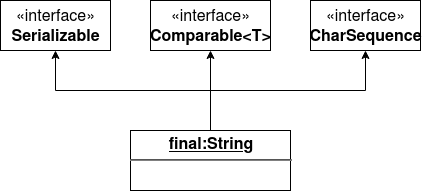
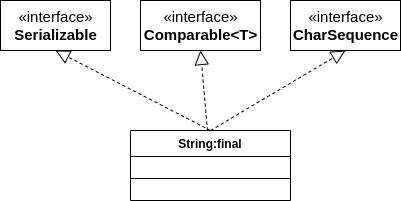
mod String.md

diff --git a/content/post/java/String.md b/content/post/java/String.md
@@ -5,38 +5,60 @@ draft: false
 categories: ["technology"]
 tags: ["java", "String"]
 ---
-
 &emsp;&emsp;从概念上将，Java字符串就是Unicode字符序列。e.g:串"Java\u2122由5个Unicode字符J a v a和TM。Java没有内置的的字符串，而是在标准Java类库中提供了一个预定义类，很自然地叫做String。每一个用引号括起来的字符串就是String类的一个实例。    
 &emsp;&emsp;在字符串中，分为不可变字符串(String)和可变字符串(StringBuffer和StringBuilder)。 
 
-### String  
-&emsp;&emsp;String类在JDK API中使用final修饰的，意为不可修改类。  
-![String](https://leidu.github.io/blogs/image/java/String.png)
+#### String  
+&emsp;&emsp;String类在JDK API中使用final修饰的，意为不可修改类。以下是String类图。    
+![String](https://leidu.github.io/blogs/image/java/String.png "String类图")  
+```
+public final class String
+    implements java.io.Serializable, Comparable<String>, CharSequence {
+    ...
+}
+```  
 * String的创建  
-    String str = “She is my mother”;  
-    String str = new String(“She is my mother”);  
-    System.out.println(“She is my mother, and her name” + name);  
+```
+    String str = “She is my mother”;   
+    String str2 = “She is my mother”;   
+    String str3 = new String(“She is my mother”);
+    System.out.println(str == str2);  //true
+    System.out.println(str.equals(str2));  //true
+    System.out.println(str == str3);  //false
+    System.out.println(str.equals(str3));  //true
+```   
+&emsp;&emsp; 通过分析，虽然str,str2,str3都是指向一个地址，但“str == str3”的值是false，可以得到一个结果，str和
+str2这两个对象是在常量池中保存，而str3是通过关键字**new**创建的一个对象，被存放在了堆内存中，而通过equals比较时，str3被重写了，重写过后变成了值比较，如"str == str2"。 
+```
+    System.out.println(“She is my mother, and her name” + name);   
+```
 &emsp;&emsp;通过println()里的语句，‘+’是一个连接符，如果在一条语句里，存在字符串和‘+’ ，那么这条语句就还是字符串；如果是数值(2+3)，则这时‘+’就起算术运算。  
 * String的方法  
-    String里面有很多的现成方法使用,如length()、split()、comparaTo()、substring() 等  
-    length()方法是获取字符串的长度  
-```
- stringName.length();  
-```
-* split()方法是对字符串进行切割  
-```
+    String里面有很多的方法使用,如length()、split()、comparaTo()、substring()等，具体详见源码。    
   
-```
-* compareTo()用于对子对字符串的比较  
-```
-
-```
 &emsp;&emsp;创建成功的字符串对象，其长度是固定的，内容不能被改变和编译。虽然使用“+” 可以达到附加新字符或字符串的目的，但“+”就会产生一个新的String实例，会在内存中创建心得字符串对象，如果多次对该字符串对象进行反复的修改，就会使内存的开销增加，使内存耗尽，最终导致系统运行的崩溃。  
 
 #### StringBuffer与StringBudilder
-&emsp;&emsp;StringBuffer和StringBudilder都是可以对其字符串进行追加、增加、删除等的操 作。但要注意，StringBuffer允许采用多线程的方式执行添加或删除字符的操作 ，但效率低，而StringBuilder采用单线程来对字符进行增加和删除，效率高。 两个类的API是相同的。
+&emsp;&emsp;StringBuffer和StringBudilder都是可以对其字符串进行追加、增加、删除等的操作。但要注意，StringBuffer允许采用多线程的方式执行添加或删除字符的操作，但效率低，而StringBuilder采用单线程来对字符进行增加和删除，效率高。  
+* StringBuffer  
+&emsp;&emsp;根据JDK API源码分析，可以得到StringBuffer的继承关系，如下图:  
+![StringBuffer](https://leidu.github.io/blogs/image/java/StringBuffer.png "StringBuffer类图")  
+&emsp;&emsp;在StringBuffer中的方法都使用了关键字**synchronized**来修饰，那么为什么要使用这个关键字呢？  
+**synchronized**关键字是线程中的一个关键字，表示同步锁，为了线程安全而设计的。如果没有这个关键字，而且同时有很多的线程需要执行，这是就会形成并发，而每一个线程都会去分得内存，如果内存不足，就会造成程序的崩溃。如果加了这个关键字，会把所进入的对象进行加锁，如果该进程运行完毕，才把其他的对象加锁来访问资源，如果该进程没运行完，则其他对象则进行等待。  
+
+* StringBuilder  
+&emsp;&emsp;在StringBuilder的源码中，因为都是继承于**AbstractStringBuilder**类，实现**Serializable**和**CharSequence**，所以和StringBuffer的具体实现都差不多。有点差别的地方就是StringBuffer使用了同步锁来保证线程的安全，而StringBuilder是不是线程安全的。  
+![StringBuilder](https://leidu.github.io/blogs/image/java/StringBuilder.png "StringBuilder类图") 
+
+#### SUMMER  
+相同点:1.String、StringBuffer、StringBuilder都是使用final修饰，表示不可继承，不可变。  
+        
+不同点:1.String没有增加删除修改的方法，而StringBuffer和StringBuilder都提供了这些方法，以此来减少对象过多而过度消耗的内存。  
+      2.StringBuffer使用关键字**synchronized**来保护线程，来支持多线程的开发,效率慢，而StringBuilder先非线程安全的，用于单线程开发，效率高。  
 
 #### REFERENCE
 [1] 凯 S.霍斯特曼.java核心技术卷I.译(周立新).北京：机械出版社.2018重印   
-[2] 明日科技.Java从入门到精通.北京：清华大学出版社.2016.
-
+[2] 明日科技.Java从入门到精通.北京：清华大学出版社.2016.   
+[3] https://www.zhihu.com/question/31345592   
+[4] https://juejin.im/post/5c7ddcd06fb9a04a06059bea   
+[5] https://blog.csdn.net/qq_28632639/article/details/98724482  
